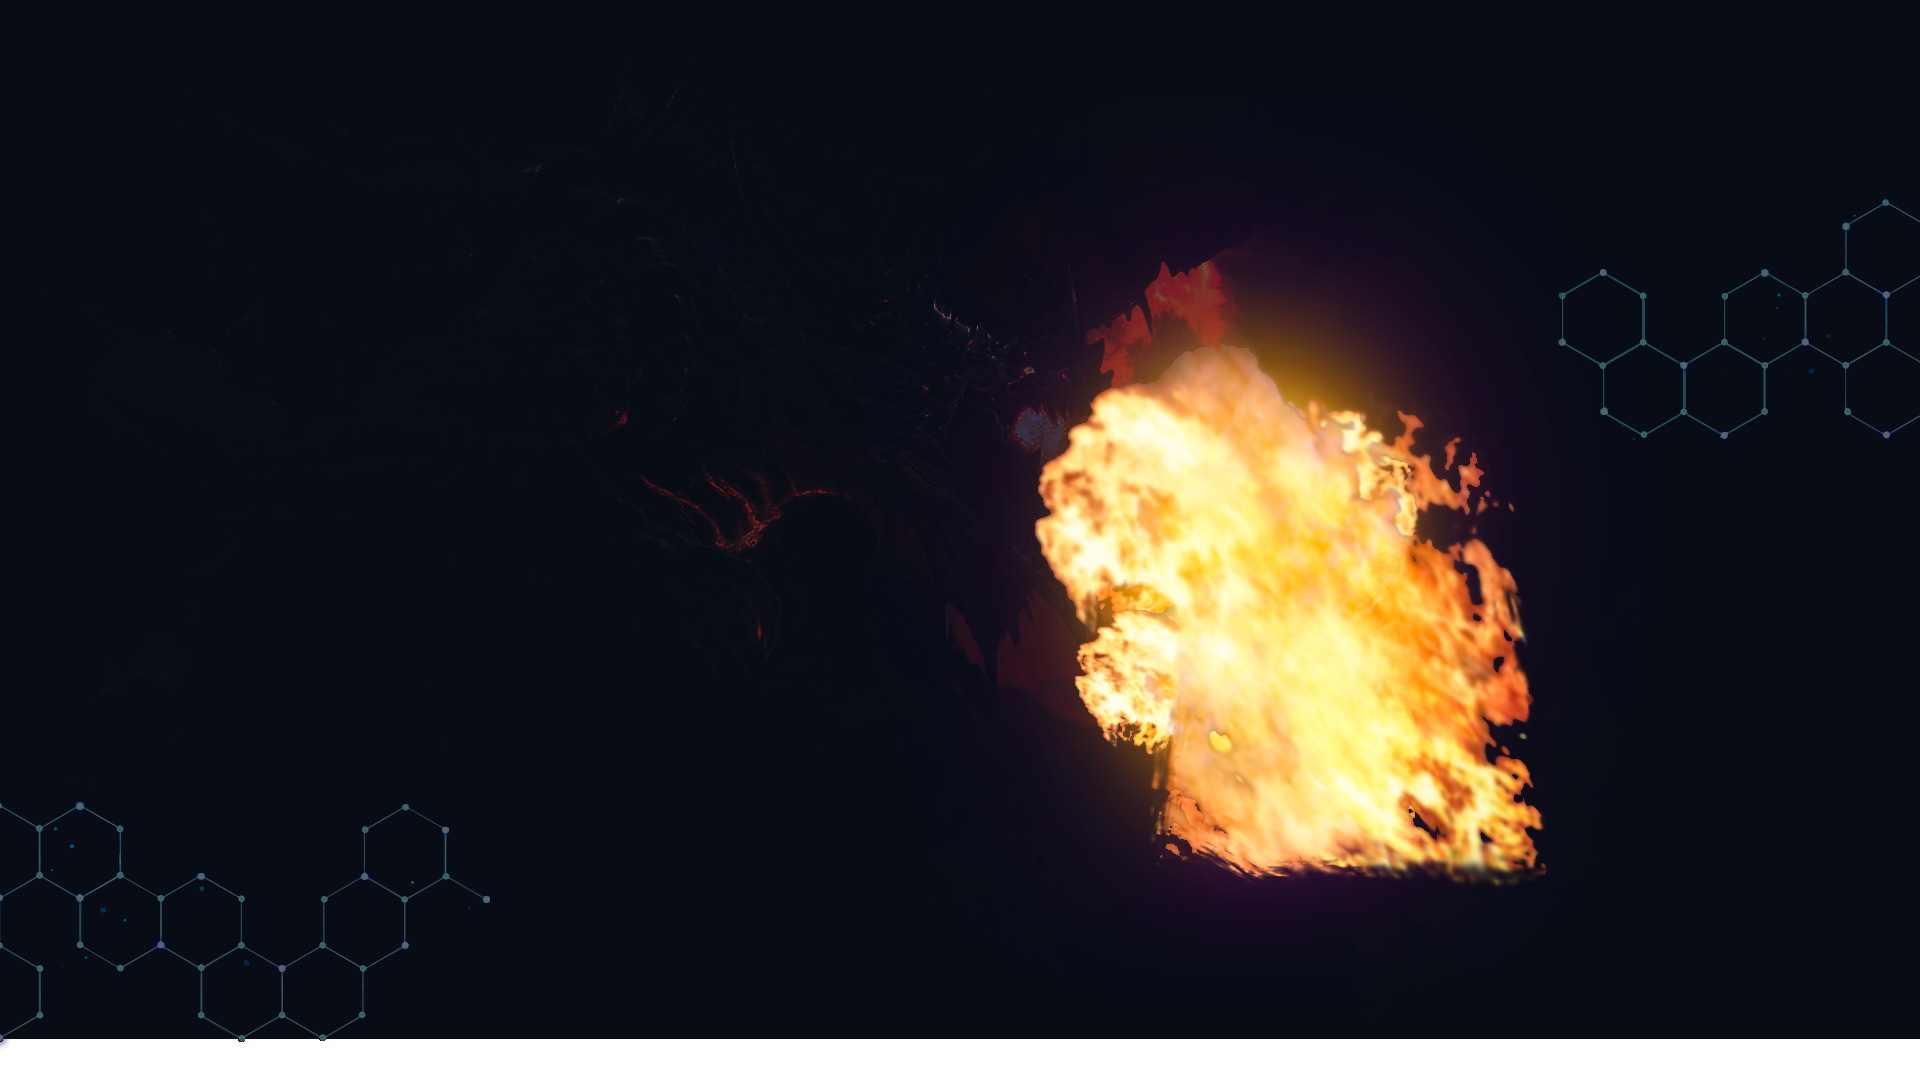
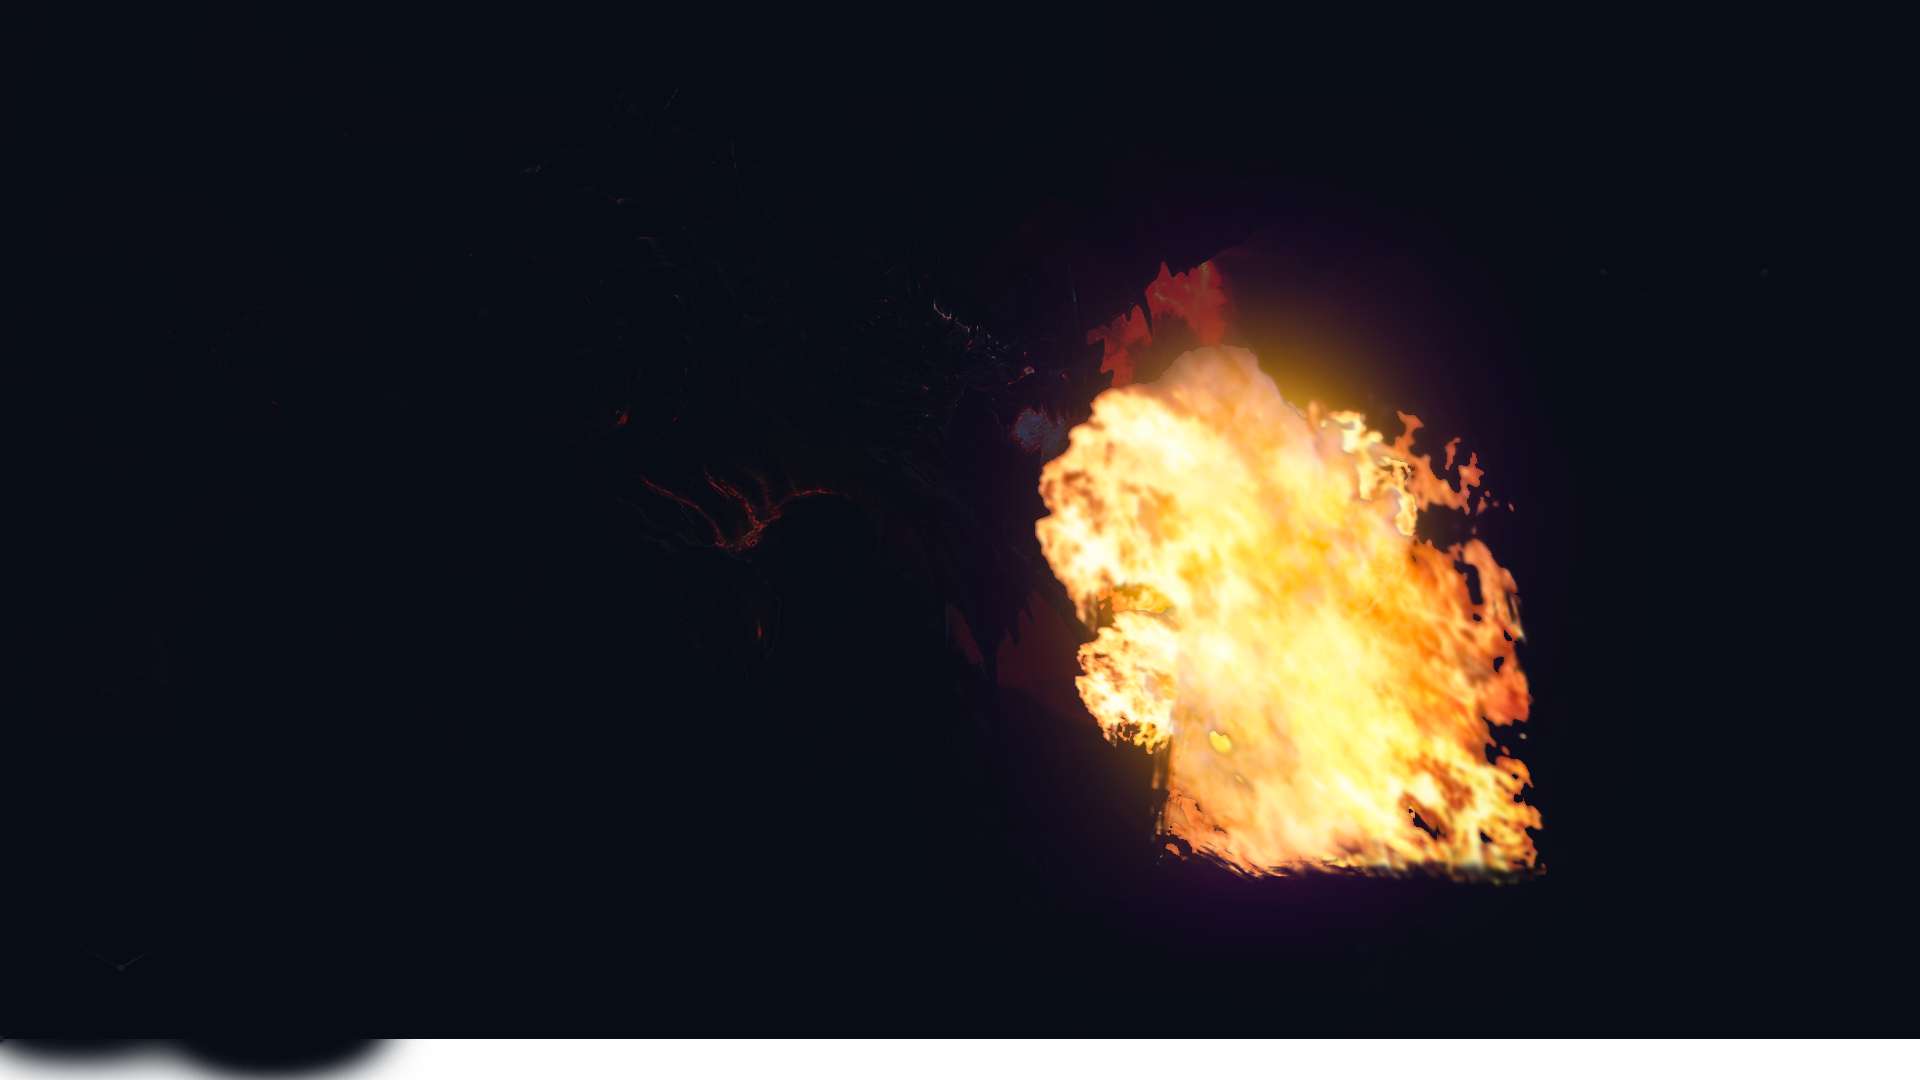
Fix backgrounds. fix #29

Changed region(s): [[0.0, 0.9472, 0.2188, 1.0], [0.8438, 0.3056, 0.875, 0.3361]]

diff --git a/app/css/developers/first.css b/app/css/developers/first.css
@@ -34,9 +34,9 @@
 
 .dev-section-1-wrapper {
   padding-bottom: 255px;
-  background-image: url('../../image/main/first_background.png');
-  background-size: 100vw 110vh;
-  background-position: center top;
+  background-image: url('../../image/main/orc_background.png'), url('../../image/main/human_background.png'), url('../../image/main/center_background.png');
+  background-size: 257px 1080px, 257px 1080px, auto;
+  background-position: left top, right top, right bottom;
   background-repeat: no-repeat;
 }
 
@@ -48,33 +48,39 @@
   margin-top: 600px;
   padding-top: 200px;
   padding-bottom: 200px;
-  background-image: url('../../image/main/dev_bottom_background.png');
-  background-size: 100vw 100vh;
-  background-position: center top;
+  background-image: url('../../image/main/bottom_background.png');
+  background-size: auto;
+  background-position: left top;
   background-repeat: no-repeat;
 }
 
 @media (max-width: 1600px) {
   .dev-section-1-wrapper {
-    background-size: 100vw 100vh;
+    background-size: 207px 900px, 207px 900px, 350px 205px;
+    background-position: left top, right top, right 80%;
   }
 
   .dev-section-3 {
-    background-size: 100vw 95vh;
+    background-size: 420px 250px;
   }
 }
 
 @media (max-width: 1300px) {
   .dev-section-1-wrapper {
-    background-size: 100vw 90vh;
+    background-size: 177px 700px, 177px 700px, 300px 180px, 370px 220px;
+    background-position: left top, right top, right 60%;
   }
 
   .dev-section-3 {
-    background-size: 100vw 85vh;
+    background-size: 370px 220px;
   }
 }
 
 @media (max-width: 1250px) {
+  .dev-section-1-wrapper {
+    background-size: 150px 650px, 150px 650px, 300px 180px, 370px 220px;
+  }
+
   .dev-first-top {
     flex-direction: column;
     align-items: flex-start;

diff --git a/app/css/main/advantages.css b/app/css/main/advantages.css
@@ -1,9 +1,9 @@
 .advantages {
   padding-top: 330px;
   padding-bottom: 175px;
-  background-image: url('../../image/main/advantages_background.png');
-  background-size: cover;
-  background-position: center center;
+  background-image: url('../../image/main/orc_background.png'), url('../../image/main/human_background.png'), url('../../image/main/center_background.png'), url('../../image/main/bottom_background.png');
+  background-position: left bottom, right bottom, right top, left bottom;
+  background-size: 257px 1080px, 257px 1080px, auto, auto;
   background-repeat: no-repeat;
 }
 
@@ -25,7 +25,7 @@
   background-image: url('../../image/main/advantages_item_background_2.png');
   background-position: left top;
   background-size: 100% 100%;
-  background: radial-gradient(closest-side, rgba(41,17,56,1) 28%, rgba(7,12,21,0.75) 91%, rgba(7,12,21,0.2) 75%);
+  background: radial-gradient(closest-side, rgba(41,17,56,1) 28%, rgba(7,12,21,0.75) 91%, transparent);
 }
 
 .advantages__item:not(:nth-child(-n + 3)) {
@@ -62,12 +62,26 @@
 
 @media (max-width: 1600px) {
   .advantages {
-    background-size: 100vw 110vh;
+    background-size: 207px 900px, 207px 900px, 350px 205px, 420px 250px;
+    background-position: left bottom, right bottom, right 20%, left bottom;
   }
 
   .advantages__inner {
     padding: 0 20px;
-    
+  }
+}
+
+@media (max-width: 1380px) {
+  .advantages {
+    background-size: 177px 700px, 177px 700px, 300px 180px, 370px 220px;
+    background-position: left 75%, right 75%, right 25%, left bottom;
+  }
+}
+
+@media (max-width: 1260px) {
+  .advantages {
+    background-size: 150px 650px, 150px 650px, 300px 180px, 370px 220px;
+    background-position: left 70%, right 70%, right 27%, left bottom;
   }
 }
 

diff --git a/app/index.html b/app/index.html
@@ -36,7 +36,7 @@
     
             <div class="header__logo-900px">
               <a href="https://byster.ru/">
-                <img class="logo" src="./image/main/logo.png" alt="logo">
+                <img class="logo" src="./image/main/logo_byster.png" alt="logo">
               </a>
             </div>
     
@@ -54,7 +54,7 @@
     
           <div class="intro__inner">
             <div class="intro__content">
-              <h1 class="intro__title">Авто РvЕ</h1>
+              <img class="intro__title" src="image/main/main_text.png">
               <div class="intro__text">Byster - это многофункциональный бот для PvE, который имеет
                 большое количество функций. Бустер хилит, танчит, наносит урон.
                 Отслеживает ваши проки, прожимает тринькеты, профессии,

diff --git a/app/css/main/subscribe.css b/app/css/main/subscribe.css
@@ -1,10 +1,10 @@
 .subscribe {
   padding-top: 110px;
   padding-bottom: 45px;
-  background-image: url('../../image/main/subscribe_background.png');
+  background-image: url('../../image/main/center_background.png');
   background-repeat: no-repeat;
-  background-size: 100vw 100vh;
-  background-position: center center;
+  background-size: auto;
+  background-position: right center;
 }
 
 .subscribe-inner {
@@ -163,6 +163,10 @@
 }
 
 @media (max-width: 1600px) {
+  .subscribe {
+    background-size: 350px 205px;
+  }
+
   .subscribe-inner {
     padding: 0;
   }
@@ -175,6 +179,11 @@
 }
 
 @media (max-width: 1300px) {
+  .subscribe {
+    background-size: 300px 180px;
+    background-position: right 20%;
+  }
+
   .subscribe-inner {
     flex-direction: column;
   }

diff --git a/app/css/main/main.css b/app/css/main/main.css
@@ -63,9 +63,9 @@ p {
 }
 
 .main-top {
-  background-image: url('../../image/main/intro_background.png');
-  background-size: cover;
-  background-position: center center;
+  background-image: url('../../image/main/bottom_background.png'), url('../../image/main/center_background.png'), url('../../image/main/intro_background.png');
+  background-size: auto, auto, cover;
+  background-position: left bottom, right 15%, center center;
   background-repeat: no-repeat;
   height: 1050px;
   margin: 0 auto;
@@ -77,7 +77,13 @@ p {
   }
 
   .main-top {
-    background-size: 100vw 100vh;
+    background-size: 420px 250px, 350px 205px, cover;
+  }
+}
+
+@media (max-width:  1300px) {
+  .main-top {
+    background-size: 370px 220px, 300px 180px, cover;
   }
 }
 

diff --git a/app/developers/index.html b/app/developers/index.html
@@ -38,7 +38,7 @@
     
             <div class="header__logo-900px">
               <a href="https://byster.ru/">
-                <img class="logo" src="../image/main/logo.png" alt="logo">
+                <img class="logo" src="../image/main/logo_byster.png" alt="logo">
               </a>
             </div>
     

diff --git a/app/css/main/intro.css b/app/css/main/intro.css
@@ -12,13 +12,6 @@
   max-width: 50%;
 }
 
-.intro__title {
-  font-family: 'Buster', sans-serif;
-  font-size: 40px;
-  color: #fcbc2c;
-  letter-spacing: 4px
-}
-
 .intro__text {
   font-size: 18px;
   font-weight: 400;
